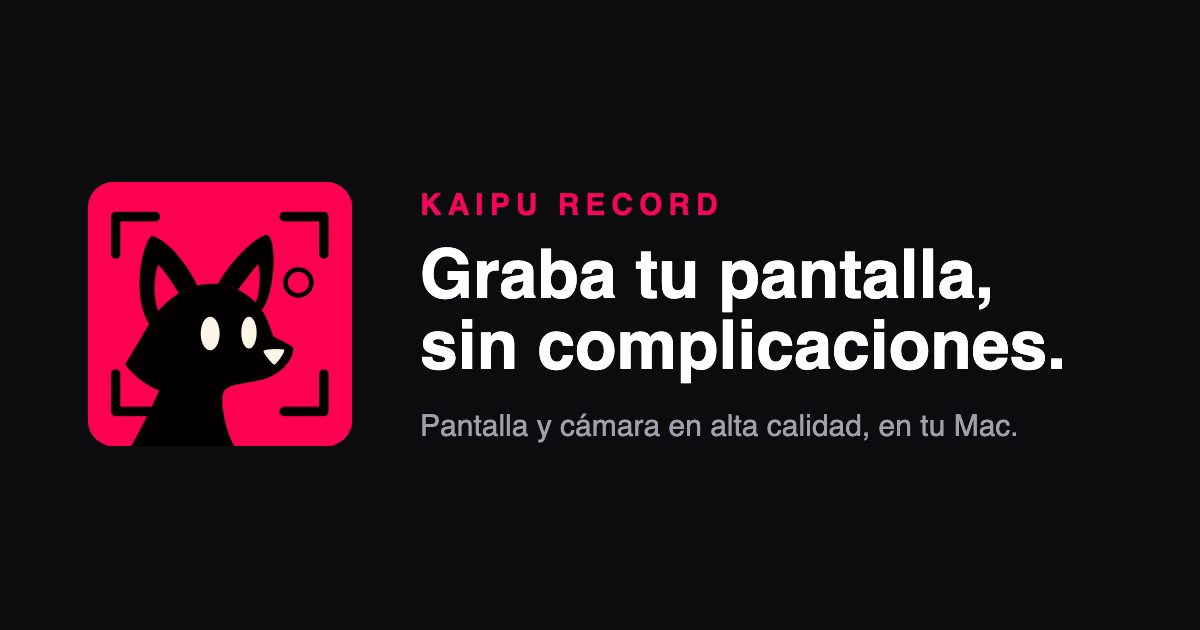
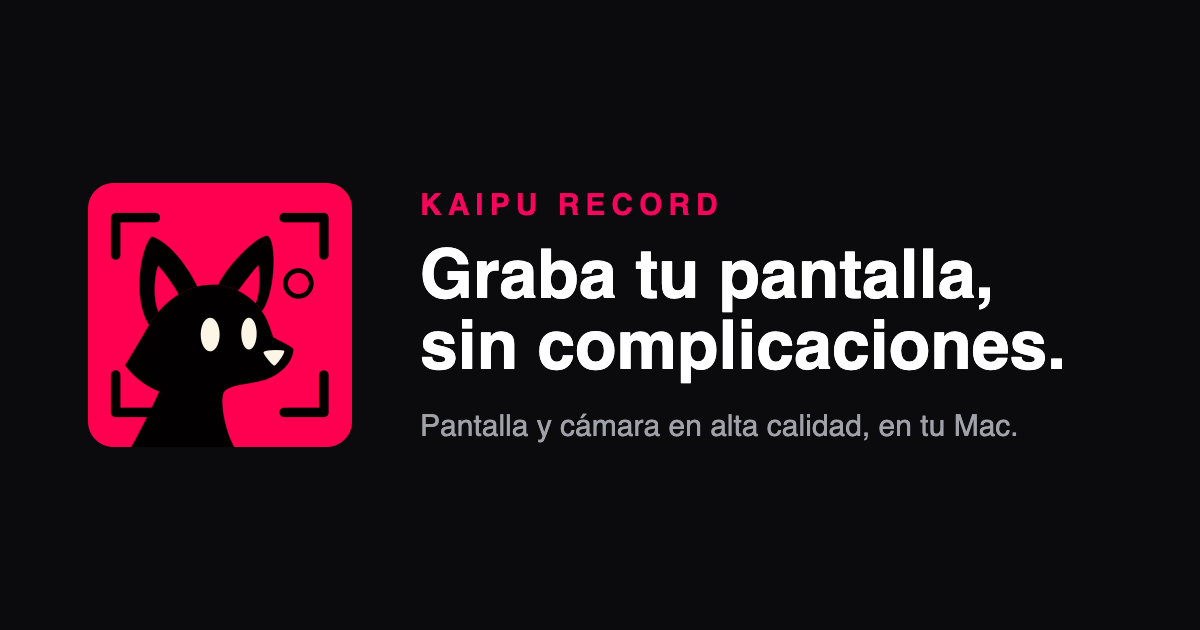
fix(web): composite the share image losslessly and bust preview caches
The first composite went through a chroma-subsampled pass: the whole image
shifted (#0b0b0d to #0c0b0e) and the pink lettering grew a purple fringe.
Redone in RGB, so only the box where the mark sits differs from the
original. OG_IMAGE gains ?v=2 because link previews are cached by image
URL; pages shared before would keep the triangle otherwise.

diff --git a/apps/web-hono/src/lib/seo.ts b/apps/web-hono/src/lib/seo.ts
@@ -9,7 +9,9 @@ import { seo as enSeo } from "@kaipu/i18n/messages/en";
 export const SITE_URL = "https://kaipu.app";
 
 export const SITE_NAME = "Kaipu Record";
-export const OG_IMAGE = `${SITE_URL}/og-image.png`;
+// Bump `v` whenever og-image.png changes: link previews are cached by image URL, so
+// pages shared before keep the old picture until the URL itself changes.
+export const OG_IMAGE = `${SITE_URL}/og-image.png?v=2`;
 
 /**
  * SEO copy is read straight from the message catalogs rather than through
